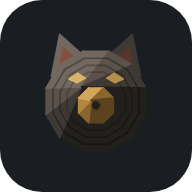
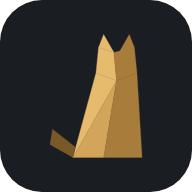
Kona (snapshot)

Changed region(s): [[0.2188, 0.1562, 0.7812, 0.8438]]

diff --git a/web/src/header-icons.ts b/web/src/header-icons.ts
@@ -82,19 +82,13 @@ const open = () => `
 /** スマホのメニュー: 小石が 3 つ */
 const more = () => [ [6.5, OCHRE], [16, ROSE], [25.5, SAGE] ].map(([x, p]) => puff(p as typeof SAGE, ngon(x as number, 16, 4.4, 6), [(x as number) - 1, 15])).join("");
 
-/** Kona のしるし: 猫の耳が生えたレコード。盤は面を割った 12 角、溝が 2 本、まん中にレーベル、上に真鍮の目 */
-export const logo = () => {
-  const D = tone("#5a524b");
-  const ring = (r: number, o: number) => `<polygon points="${ngon(16, 18, r, 12, Math.PI / 12).map(p => p.map(v => v.toFixed(2)).join(",")).join(" ")}" style="fill:none;stroke:#000;stroke-opacity:${o};stroke-width:.4"/>`;
-  return `
-  ${poly(D.hi, [[5.2, 12], [7.2, 1.8], [13, 7]])}${poly(ROSE.lo, [[7.2, 9.6], [8, 5], [11, 7.6]])}
-  ${poly(D.lo, [[26.8, 12], [24.8, 1.8], [19, 7]])}${poly(ROSE.deep, [[24.8, 9.6], [24, 5], [21, 7.6]])}
-  ${puff(D, ngon(16, 18, 12.5, 12, Math.PI / 12), [12.5, 14.5])}
-  ${ring(10.8, .32)}${ring(9, .26)}${ring(7.3, .2)}
-  ${poly(BRASS.hi, [[9.4, 12.6], [11.6, 11.2], [13.4, 12.4], [11.4, 13.5]])}${poly(BRASS.mid, [[18.6, 12.4], [20.4, 11.2], [22.6, 12.6], [20.6, 13.5]])}
-  ${puff(OCHRE, ngon(16, 19, 4.6, 8, Math.PI / 8), [14.8, 17.8])}
-  ${poly(D.deep, ngon(16, 19, .9, 6))}`;
-};
+/** Kona のしるし: 座る猫。三角の体に耳つきの頭、しっぽ。面は 8 枚、琥珀 1 色の濃淡だけ（単色にしても形が残る） */
+const AMBER = { hi: "#e6bb6e", mid: "#d3a55a", lo: "#a87d3c", deep: "#7a5828" };
+export const logo = () => `<g transform="translate(16 16) scale(.31) translate(-46 -46)">
+  ${poly(AMBER.hi, [[48, 8], [52, -2], [60, 12]])}${poly(AMBER.lo, [[76, 8], [72, -2], [64, 12]])}
+  ${poly(AMBER.hi, [[48, 8], [60, 12], [62, 34], [46, 28]])}${poly(AMBER.lo, [[76, 8], [60, 12], [62, 34], [78, 28]])}
+  ${poly(AMBER.hi, [[46, 28], [62, 34], [28, 94]])}${poly(AMBER.mid, [[62, 34], [52, 94], [28, 94]])}
+  ${poly(AMBER.lo, [[62, 34], [78, 28], [82, 94], [52, 94]])}${poly(AMBER.deep, [[28, 94], [10, 84], [12, 72], [30, 86]])}</g>`;
 
 export const HEADER_ICON = { home, library, settings, photo, mini, pip, invite, open, more, logo };
 export type HeaderIcon = keyof typeof HEADER_ICON;
